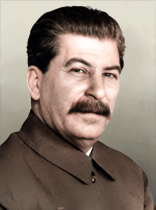
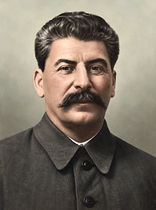
Replace Stalin leader portrait

diff --git a/MOD制作日志.md b/MOD制作日志.md
@@ -1,6 +1,13 @@
 # [KR] 多么幼稚的幻想，但是斯大林——制作日志与开发备忘
 
-最后更新：2026-09-13
+最后更新：2026-09-14
+
+## 2026-09-14 — 更换斯大林领导人大头像
+
+- 仅修改测试版。将斯大林担任国家领导人时使用的 `GFX_portrait_RUS_iosif_stalin_civilian_large` 替换为用户提供的新图；保持原有 sprite 名称和 `gfx/GFX_portrait_RUS_iosif_stalin_civilian_large.png` 路径，不改人物定义与政治效果。
+- 原图为 `1086×1448` RGB，与目标 `156×210` 比例几乎一致；居中裁去左右各 5 像素，不做纵向裁剪，再用 Lanczos 缩放并轻度锐化，因此完整保留头顶、肩部和制服领口。输出继续为 `156×210` RGB PNG。
+- 顾问及其他小尺寸界面使用的 `GFX_portrait_RUS_iosif_stalin_civilian_small` 保持不变。原始输入图与裁剪记录保存在 `tools/art_sources/stalin_portrait_20260914/`，开发素材由上传脚本排除。
+- `interface/Stalin_form_sov.gfx` 经 RHoiScribe 验证为绿色、零诊断；上传目录已干净重建为 1008 个文件，运行时头像与测试版源码 SHA256 一致，开发素材未进入上传目录。
 
 ## 2026-09-13 — 重绘单兵负荷轻量化纲要国策图标
 
